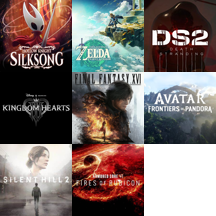
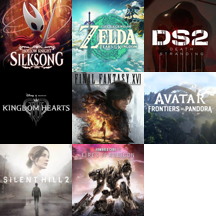
Update layout, fix incorrect base URLs
Also updated the icons for the release radar. The official icons for TOTK and AC6 were added in place of fan-made ones that were being used before. Additionally, the unused contact page was removed, and links to Jekyll and Netlify were added to the sidebar.

Changed region(s): [[0.3333, 0.6667, 0.6667, 1.0], [0.3333, 0.0, 0.6667, 0.3333]]

diff --git a/_layouts/wnesenior.html b/_layouts/wnesenior.html
@@ -12,9 +12,9 @@
         <div class="content-container flex">
             <div class="page card">
                 <div class="page-content flex col">
-                    <span class="page-title botw-font">{{ page.title }}</span>
+                    <span class="page-title">{{ page.title }}</span>
                     <span class="spacer"></span>
-                    <span class="small-text" id="meta"><span class="bold">Last updated:</span> {{ page.last_updated }} (EST)</span>
+                    <span class="small-text" id="meta"><span class="bold">Last updated:</span> {{ page.last_updated }} (EDT)</span>
                     <div class="content">
                         {{ content }}
                     </div>

diff --git a/resources/css/style.css b/resources/css/style.css
@@ -50,7 +50,7 @@ a:active, a:hover { text-decoration: underline }
 .pcard>a>img { width: 95%; height: 80%; transition: width .25s, height .25s }
 .pcard>a>img:hover { width: 99%; height: 84% }
 .pcard>span#title { font-weight: 700; margin-top: -18px }
-.botw-font, div.widget-title, .home-title>span#title { font-family: "HyliaSerif" }
+.botw-font, span.page-title, div.widget-title, .home-title>span#title { font-family: "HyliaSerif" }
 @media screen and (max-width:1072px) {
 	.root { justify-content: initial; align-items: initial; align-content: initial; height: initial }
 	.nav { border-radius: 0; overflow-x: scroll; min-height: 72px; -webkit-overflow-scrolling: touch }

diff --git a/_includes/sidebar.html b/_includes/sidebar.html
@@ -85,7 +85,7 @@
     <div class="widget-content widget-build">
         <span>
             Last built on <span class="bold">{{ "now" | date: "%B %d, %Y at %I:%M %p (GMT)" }}</span><br>
-            Created with Jekyll, hosted by Netlify<br>
+            Created with <a href="https://jekyllrb.com/">Jekyll</a>, hosted by <a href="https://www.netlify.com/">Netlify</a><br>
             View source code on <a href="https://github.com/egartley/net">GitHub</a>
         </span>
     </div>

diff --git a/_pages/exoplanets.html b/_pages/exoplanets.html
@@ -2,7 +2,7 @@
 permalink: /projects/exoplanets/
 layout: wnesenior
 title: Exoplanets
-base_url: /projects/exoplanets/
+base_url: /projects/
 last_updated: October 31, 2020 at 4:54 PM
 ---
 

diff --git a/_pages/projects.html b/_pages/projects.html
@@ -1,8 +1,8 @@
 ---
-permalink: "/projects/"
+permalink: /projects/
 layout: wnesenior
 title: Projects
-base_url: /projects/
+base_url: /
 last_updated: December 29, 2022 at 4:58 PM
 ---
 

diff --git a/_pages/pegasus.html b/_pages/pegasus.html
@@ -2,7 +2,7 @@
 permalink: /projects/pegasus/
 layout: wnesenior
 title: Pegasus
-base_url: /projects/pegasus/
+base_url: /projects/
 last_updated: August 31, 2020 at 9:56 PM
 ---
 
